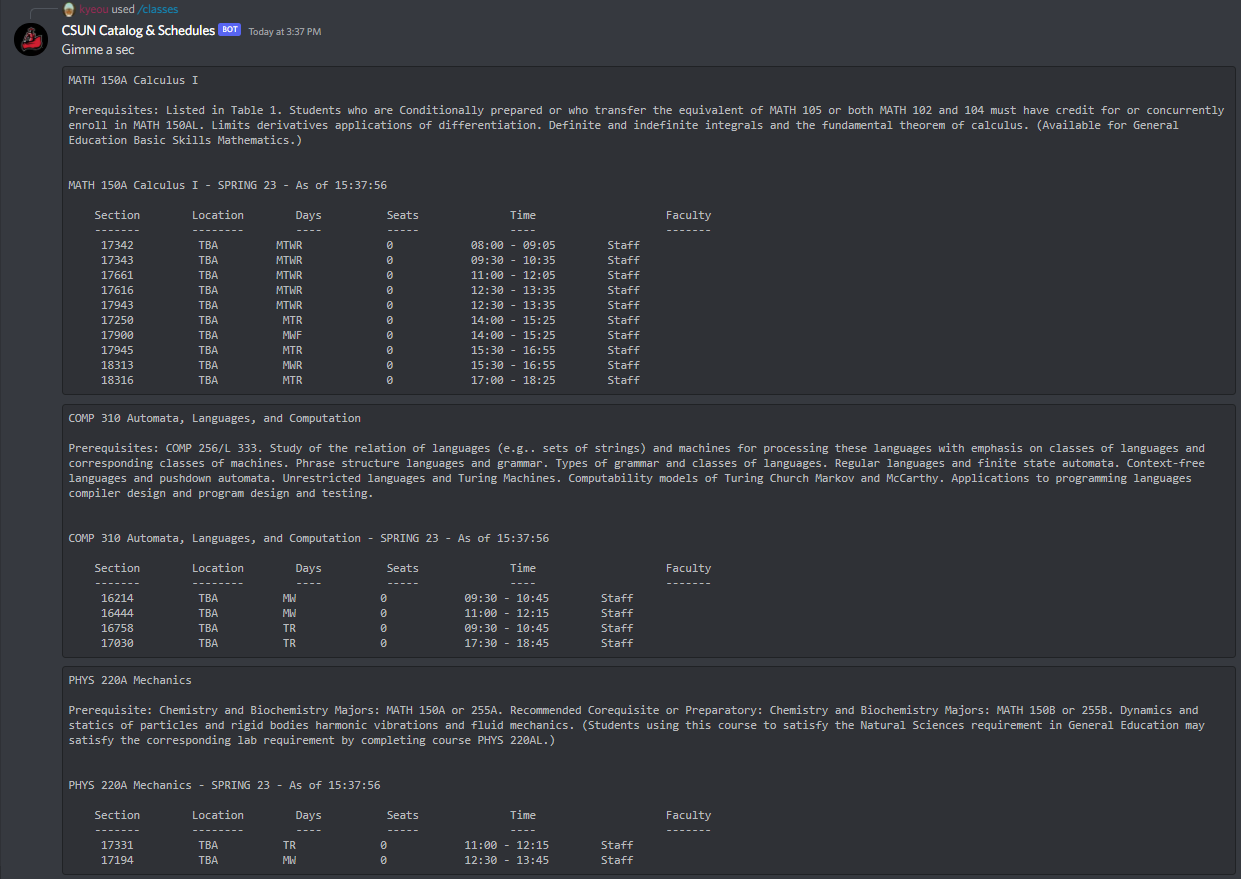
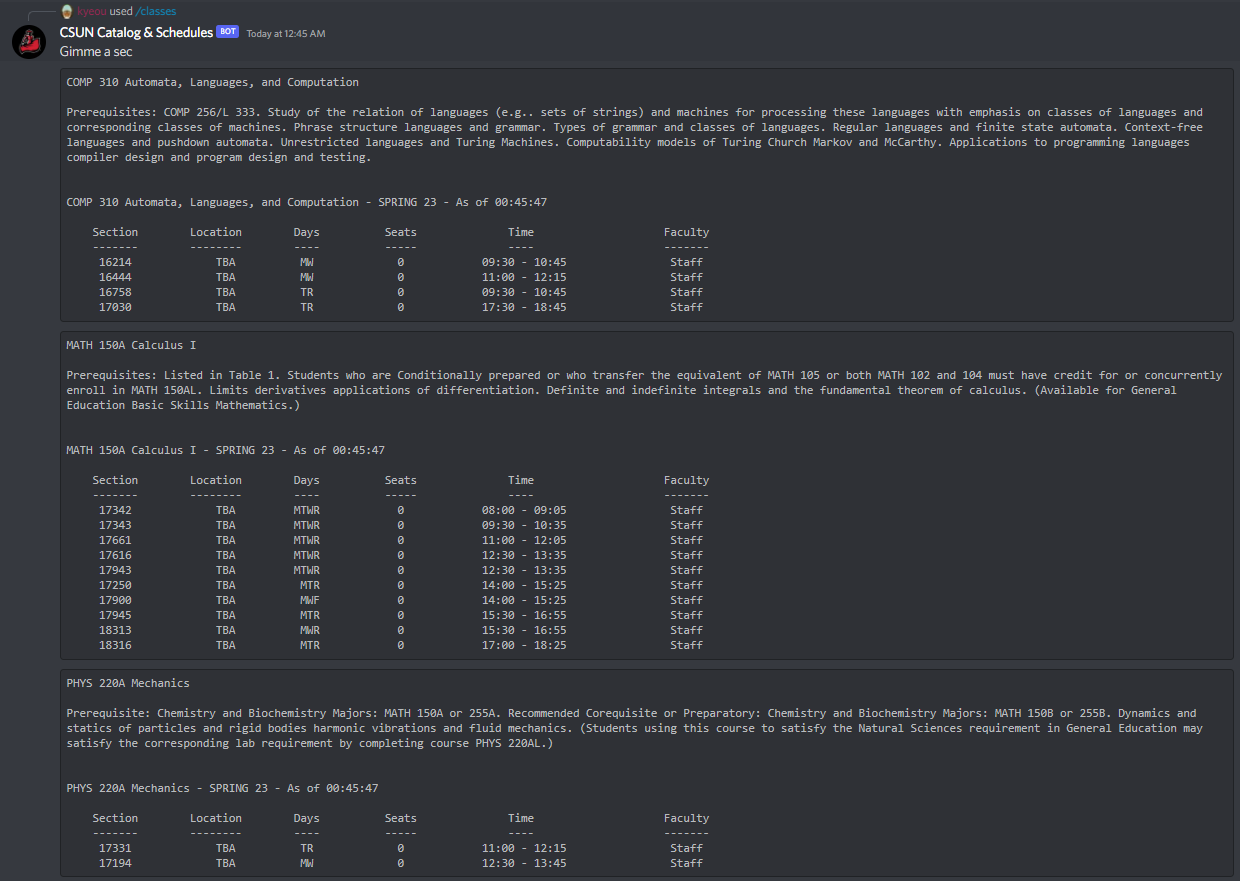
updated output formatting for spring 23

diff --git a/csun_catalog_and_schedules_bot/bot.js b/csun_catalog_and_schedules_bot/bot.js
@@ -1,5 +1,8 @@
 require('dotenv').config()
 const {
+  token
+  } = require('./config.json');
+const {
   Client,
   GatewayIntentBits
 } = require('discord.js');
@@ -163,7 +166,7 @@ function show_class(subject, code, itchid) {
 function show_class_with_term(subject, code, semester, year, itchid) {
   console.log("Show class override called.");
   if (semester !== "spring" && year !== 23) {
-    var ret1 = "";
+    var ret1 = "", ret2 = "";
     require("request")({
       url: `http://127.0.0.1:5000/${subject}/catalog`,
       json: true
@@ -206,42 +209,42 @@ function show_class_with_term(subject, code, semester, year, itchid) {
 
         const stuffs = JSON.parse(JSON.stringify(body));
 
-        ret1 = ret1.concat("\n\tSection\t\tLocation\t\tDays\t\t  Seats\t\t\t  Time\t\t\t\t\tFaculty\n\t-------\t\t--------\t\t----\t\t  -----\t\t\t  ----\t\t\t\t\t-------\n");
+        ret2 = ret2.concat("\n\tSection\t\tLocation\t\tDays\t\t  Seats\t\t\t  Time\t\t\t\t\tFaculty\n\t-------\t\t--------\t\t----\t\t  -----\t\t\t  ----\t\t\t\t\t-------\n");
         stuffs.classes.forEach(element => {
           if (element.catalog_number === code && element.meetings.length > 0) {
-            ret1 = ret1.concat("\t " + element.class_number);
-
-            ret1 = (element.meetings[0].location.length === 3) ? ret1.concat("\t\t       ") : ret1.concat("");
-            ret1 = (element.meetings[0].location.length === 5) ? ret1.concat("\t\t   " + element.meetings[0].location) : ret1.concat("\t\t  " + element.meetings[0].location);
-
+            ret2 = ret2.concat("\t " + element.class_number);
+        
+            ret2 = (element.meetings[0].location.length === 3) ? ret2.concat("   ") : ret2.concat("");
+            ret2 = (element.meetings[0].location.length === 5) ? ret2.concat("\t\t   " + element.meetings[0].location) : ret2.concat("\t\t  " + element.meetings[0].location);
+        
             if (element.meetings[0].days.length === 1) {
-
-              ret1 = ret1.concat("\t\t   " + element.meetings[0].days);
-
+        
+              ret2 = ret2.concat("\t\t   " + element.meetings[0].days);
+        
             } else if (element.meetings[0].days.length === 2 || element.meetings[0].days.length === 3) {
-
-              ret1 = ret1.concat("\t\t  " + element.meetings[0].days);
-
+        
+              ret2 = ret2.concat("\t\t  " + element.meetings[0].days);
+        
             } else {
-
-              ret1 = ret1.concat("\t\t " + element.meetings[0].days);
-
+        
+              ret2 = ret2.concat("\t\t " + element.meetings[0].days);
+        
             }
-
-            ret1 = ret1.concat("\t\t\t " + (element.enrollment_cap - element.enrollment_cap) + "\t\t\t");
-            ret1 = ret1.concat(element.meetings[0].start_time.substring(0, 2) + ":" + element.meetings[0].start_time.substring(2, 4));
-            ret1 = ret1.concat(" - ");
-            ret1 = ret1.concat(element.meetings[0].end_time.substring(0, 2) + ":" + element.meetings[0].end_time.substring(2, 4));
-
-            ret1 = (element.instructors.length > 0) ? ret1.concat("\t\t" + element.instructors[0].instructor) : ret1.concat("\t\t\t\tStaff");
-
-            ret1 = ret1.concat("\n");
+        
+            ret2 = ret2.concat("\t\t\t " + (element.enrollment_cap - element.enrollment_cap) + "\t\t\t");
+            ret2 = ret2.concat(element.meetings[0].start_time.substring(0, 2) + ":" + element.meetings[0].start_time.substring(2, 4));
+            ret2 = ret2.concat(" - ");
+            ret2 = ret2.concat(element.meetings[0].end_time.substring(0, 2) + ":" + element.meetings[0].end_time.substring(2, 4));
+        
+            ret2 = (element.instructors.length > 0) ? ret2.concat("\t\t" + element.instructors[0].instructor) : ret2.concat("\t\t\t\tStaff");
+        
+            ret2 = ret2.concat("\n");
           }
         });
-
+        setTimeout( async () => {await client.channels.cache.get(itchid).send("```" + ret1 + ret2 + "```")}, 2000);
       } //end if
 
-      await client.channels.cache.get(itchid).send("```" + ret1 + "```");
+      //await client.channels.cache.get(itchid).send("```" + ret1 + "```");
     }); //end request
   } else {
     var ret1 = "",
@@ -298,7 +301,7 @@ function show_class_with_term(subject, code, semester, year, itchid) {
 
             ret2 = ret2.concat("\t " + element.class_number);
             
-            ret1 = (element.meetings[0].location.length === 3) ? ret1.concat("\t\t       ") : ret1.concat("");
+            ret2 = (element.meetings[0].location.length === 3) ? ret2.concat("   ") : ret2.concat("");
             ret2 = (element.meetings[0].location.length === 5) ? ret2.concat("\t\t   " + element.meetings[0].location) : ret2.concat("\t\t  " + element.meetings[0].location);
 
             if (element.meetings[0].days) {
@@ -307,7 +310,11 @@ function show_class_with_term(subject, code, semester, year, itchid) {
 
                 ret2 = ret2.concat("\t\t   " + element.meetings[0].days);
 
-              } else if (element.meetings[0].days.length === 2 || element.meetings[0].days.length === 3) {
+              } else if (element.meetings[0].days.length === 2) {
+
+                ret2 = ret2.concat("\t\t  " + element.meetings[0].days + " ");
+
+              } else if (element.meetings[0].days.length === 3) {
 
                 ret2 = ret2.concat("\t\t  " + element.meetings[0].days);
 
@@ -317,21 +324,21 @@ function show_class_with_term(subject, code, semester, year, itchid) {
               ret2 = ret2.concat("\t\t  --");
             }
 
-            ret2 = ret2.concat("\t\t\t " + (element.enrollment_cap - element.enrollment_cap) + "\t\t\t");
+            ret2 = ret2.concat("\t\t\t" + (element.enrollment_cap - element.enrollment_cap) + "\t\t\t");
             ret2 = ret2.concat(element.meetings[0].start_time.substring(0, 2) + ":" + element.meetings[0].start_time.substring(2, 4));
             ret2 = ret2.concat(" - ");
             ret2 = ret2.concat(element.meetings[0].end_time.substring(0, 2) + ":" + element.meetings[0].end_time.substring(2, 4));
 
-            ret2 = (element.instructors.length > 0) ? ret2.concat("\t\t" + element.instructors[0].instructor) : ret2.concat("\t\t\t\tStaff");
+            ret2 = (element.instructors.length > 0) ? ret2.concat("\t\t\t\t" + element.instructors[0].instructor) : ret2.concat("\t\t\t\tStaff");
 
 
             ret2 = ret2.concat("\n");
           }
         });
-
+setTimeout( async () => {await client.channels.cache.get(itchid).send("```" + ret1 + ret2 + "```")}, 2000);
       } //end if
 
-      setTimeout( async () => {await client.channels.cache.get(itchid).send("```" + ret1 + ret2 + "```")}, 2000);
+      
     }); //end request
 
 
@@ -458,4 +465,4 @@ client.on('interactionCreate', async interaction => {
 
 });
 
-client.login(process.env.DISCORD_TOKEN);
+client.login(token);
